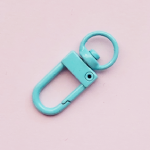
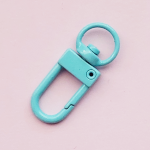
imagenes de accesorios, mostrar borde de accesorio seleccionado

Changed region(s): [[0.1867, 0.1333, 0.8, 0.8533]]

diff --git a/src/components/AppInputKeychainStyle.vue b/src/components/AppInputKeychainStyle.vue
@@ -20,8 +20,8 @@ const appUseUtils = reactive(useUtils());
 
 const listAccesoriesKeychain = ref([]);
 const  selectedKeychain = reactive({
-    value:0,
-    desc:""
+    id:0,
+    name:""
 });
 
 const initComponents = () => {
@@ -30,12 +30,14 @@ const initComponents = () => {
 
 const fetchListProducts = () => {
     listAccesoriesKeychain.value = appApi.getAccessoriesList().keychain;
-    console.log(appApi.getAccessoriesList().keychain);
+
+    selectedKeychain.id = listAccesoriesKeychain.value[0].id
+    selectedKeychain.name = listAccesoriesKeychain.value[0].name
 };
 
 const setSelectedKeychain = (item) => {
-    selectedKeychain.value = item.id
-    selectedKeychain.desc = item.name
+    selectedKeychain.id = item.id
+    selectedKeychain.name = item.name
 };
 
 initComponents();
@@ -43,7 +45,7 @@ initComponents();
 
 <template>
     <div class="row g-2 py-2">
-        <p>{{ selectedKeychain.desc }}</p>
+        <p><b>Estilo: </b>{{ selectedKeychain.name }}</p>
         <div
             v-for="(item, idx) in listAccesoriesKeychain"
             class="col-2"
@@ -53,6 +55,9 @@ initComponents();
                 @click="setSelectedKeychain(item)"
                 :src="appUseUtils.getImgUrl(item.image)"
                 class="rounded-circle img-fluid"
+                :class="{
+                    'border border-lila-subtle border-4': item.id === selectedKeychain.id,
+                }"
             />
         </div>
     </div>
